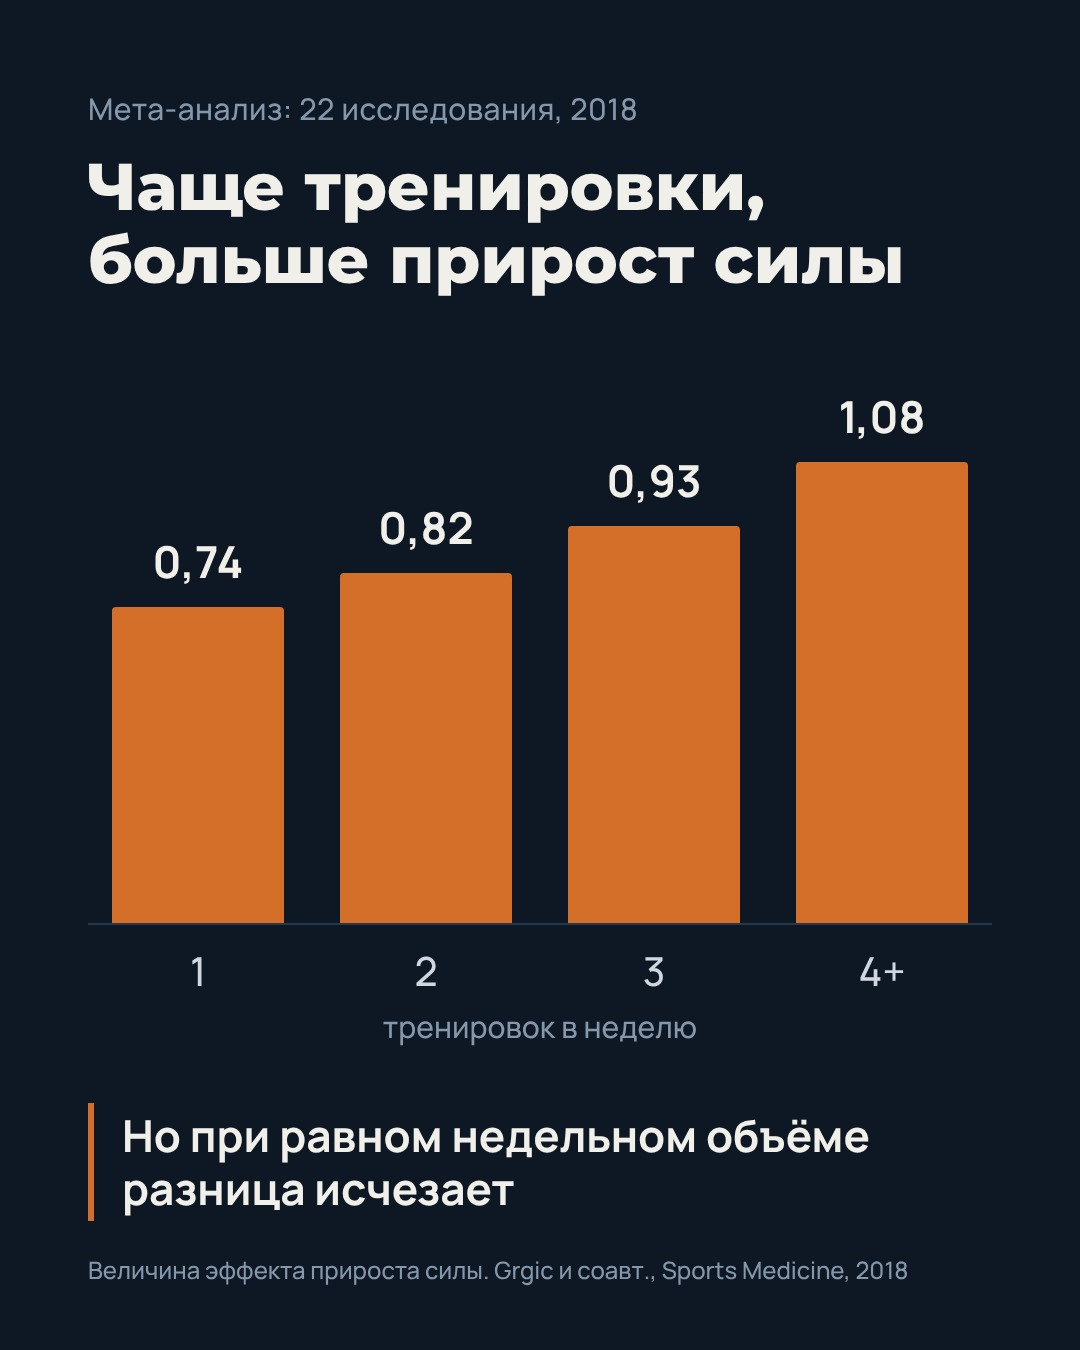
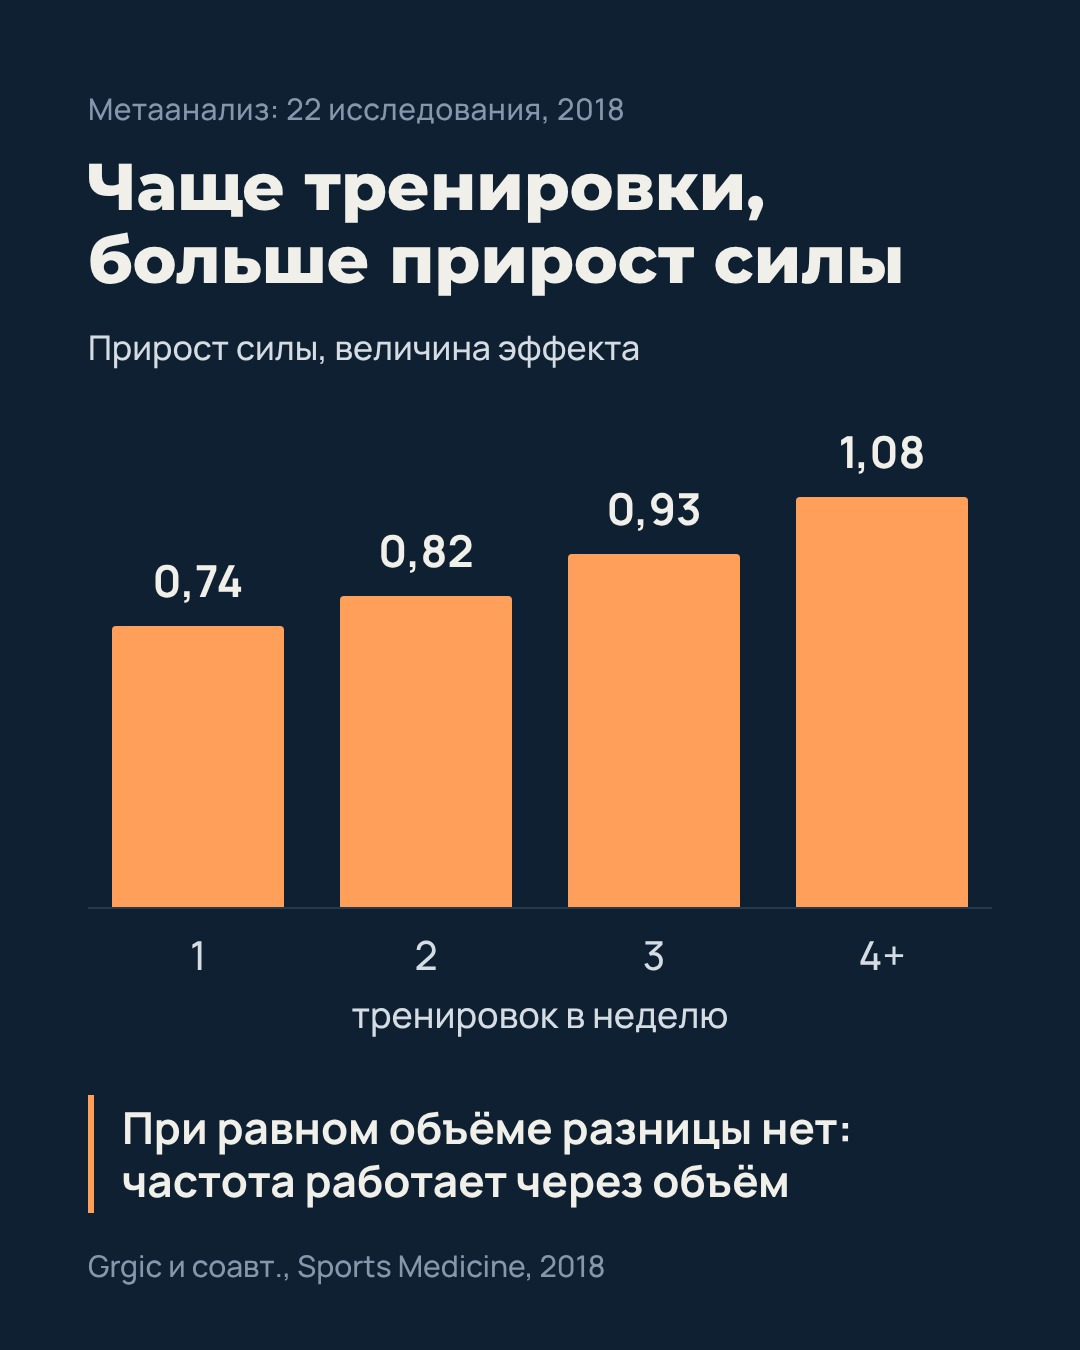
TG: график к посту про жим по замечаниям проверки картинок, исходник графика в content/tg/charts
Claude-Session: https://claude.ai/code/session_014b6iEBjPGyacsH4fnBbVwQ

diff --git a/content/tg/charts/01_zhim_chastota.html b/content/tg/charts/01_zhim_chastota.html
@@ -1,0 +1,33 @@
+<!doctype html><html><head><meta charset="utf-8">
+<link href="https://fonts.googleapis.com/css2?family=Montserrat:wght@800&family=Manrope:wght@500;700&display=swap" rel="stylesheet">
+<style>
+:root{--bg:#102033;--ink:#f1efe9;--soft:#d5dce4;--muted:#8597ab;--line:#26384c;--bar:#ff9f5a}
+*{box-sizing:border-box;margin:0}
+body{width:1080px;height:1350px;background:var(--bg);color:var(--ink);font-family:Manrope,sans-serif;padding:88px 88px 64px;display:flex;flex-direction:column}
+.kicker{font-size:30px;color:var(--muted);font-weight:500;letter-spacing:.5px}
+h1{font-family:Montserrat,sans-serif;font-weight:800;font-size:66px;line-height:1.1;margin-top:22px}
+.metric{margin-top:28px;font-size:34px;color:var(--soft);font-weight:500}
+.plot{position:relative;flex:1;margin-top:40px;display:flex;align-items:flex-end;gap:56px;padding:0 24px;border-bottom:2px solid var(--line)}
+.col{flex:1;display:flex;flex-direction:column;align-items:center;justify-content:flex-end;height:100%}
+.val{font-size:44px;font-weight:700;margin-bottom:16px}
+.bar{width:100%;background:var(--bar);border-radius:4px 4px 0 0}
+.labels{display:flex;gap:56px;padding:18px 24px 0}
+.labels div{flex:1;text-align:center;font-size:40px;color:var(--soft);font-weight:500}
+.axis{text-align:center;font-size:36px;color:var(--soft);margin-top:8px}
+.callout{margin-top:56px;border-left:6px solid var(--bar);padding:6px 0 6px 28px;font-size:44px;font-weight:700;line-height:1.2}
+.src{margin-top:32px;font-size:30px;color:var(--muted)}
+</style></head><body>
+<div class="kicker">Метаанализ: 22 исследования, 2018</div>
+<h1>Чаще тренировки, больше прирост силы</h1>
+<div class="metric">Прирост силы, величина эффекта</div>
+<div class="plot" id="plot"></div>
+<div class="labels"><div>1</div><div>2</div><div>3</div><div>4+</div></div>
+<div class="axis">тренировок в неделю</div>
+<div class="callout">При равном объёме разницы нет: частота работает через объём</div>
+<div class="src">Grgic и соавт., Sports Medicine, 2018</div>
+<script>
+const v=[0.74,0.82,0.93,1.08], max=1.2, p=document.getElementById('plot');
+const h=p.clientHeight-80;
+v.forEach(x=>{const c=document.createElement('div');c.className='col';
+c.innerHTML='<div class="val">'+String(x).replace('.',',')+'</div><div class="bar" style="height:'+Math.round(h*x/max)+'px"></div>';p.appendChild(c)});
+</script></body></html>

diff --git a/content/tg/charts/shot.js b/content/tg/charts/shot.js
@@ -1,0 +1,4 @@
+const { chromium } = require('playwright');
+(async () => { const b = await chromium.launch(); const p = await b.newPage({ viewport: { width: 1080, height: 1350 } });
+await p.goto('file://' + __dirname + '/01_zhim_chastota.html', { waitUntil: 'networkidle' }); await p.waitForTimeout(500);
+await p.screenshot({ path: __dirname + '/../01_zhim_kazhduyu_trenirovku.png' }); await b.close(); })();

diff --git a/content/tg/posts_01.py b/content/tg/posts_01.py
@@ -4,7 +4,7 @@ posts = {
 
 Многие уверены, что жать чаще раза в неделю перебор: грудь не успевает восстановиться.
 
-В 2018 году вышел мета-анализ: 22 исследования о частоте тренировок и силе. Чем чаще, тем больше прирост: величина эффекта 0,74 при одной тренировке в неделю и 1,08 при четырёх и больше.
+В 2018 году вышел метаанализ: 22 исследования о частоте тренировок и силе. Чем чаще, тем больше прирост: величина эффекта 0,74 при одной тренировке в неделю и 1,08 при четырёх и больше.
 
 Но когда объём уравнивали, разница пропадала. Сила растёт от объёма, частота помогает его набрать. Сильнее всего частота сработала в многосуставных упражнениях и на верх тела, жим лёжа как раз такой. Оговорка: участники в основном новички.
 
